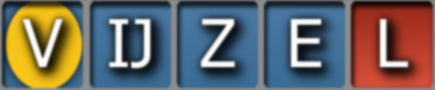
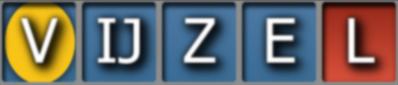
Add files via upload

diff --git a/lingle/index.html b/lingle/index.html
@@ -310,6 +310,9 @@
             .keybline button[data-bg="zwart"]:hover {
                 filter: brightness(0.7);
             }
+            :root[data-donkerblauw="true"] .keybline button[data-bg="zwart"]:hover {
+                filter: brightness(0.7);
+            }
             #notifbox button:hover {
                 background: #0002;
             }
@@ -642,6 +645,13 @@
                         linear-gradient(to top, #1d5377, #255e85);
             text-shadow: 0px 0px 2px #000F, 1px 1px 2px #000F, 1px 1px 3px #000F, 1px 1px 3px #000F;
         }
+        :root[data-donkerblauw="true"] .boxblue {
+            background: linear-gradient(to top, #0e2c40, #143244);
+        }
+        :root[data-donkerblauw="true"] .boxyellow {
+            background: radial-gradient(48% 60% at 50% 48%, #f9c418 90%, #0008 99%, transparent 102%),
+                        linear-gradient(to top, #0e2c40, #143244);
+        }
 
         .boxred::selection,    .boxblue::selection,
         .boxyellow::selection, .keycap::selection { --e: 0; } /* to prevent vscode warning lol */
@@ -747,7 +757,7 @@
 
         <h2>Voorbeeld</h2>
 
-        <img src="example.png" alt='Voorbeeld van een beurt met het woord "vijzel". De V is geel omcirkeld, de L heeft een rode achtergrond, en de andere letters hebben een blauwe achtergrond.' class="example">
+        <img id="examplepic" src="example.png" alt='Voorbeeld van een beurt met het woord "vijzel". De V is geel omcirkeld, de L heeft een rode achtergrond, en de andere letters hebben een blauwe achtergrond.' class="example">
 
         <p>De <span class="boxred">L</span> zit in het woord, en staat op de juiste plek.</p>
         <p>De <span class="boxyellow">V</span> zit in het woord, maar staat niet op de juiste plek.</p>
@@ -1087,9 +1097,22 @@ function initSett() {
 }
 function setTheme()             { document.documentElement.dataset.theme       = gamedata.thema; }
 function setBlur()              { document.documentElement.dataset.blur        = gamedata.blur; }
-function setDonkerblauw()       { document.documentElement.dataset.donkerblauw = gamedata.donkerblauw; }
 function setReducedAnimation()  { document.documentElement.dataset.redanim     = gamedata.reduceanim; }
 function setOpaque()            { document.documentElement.dataset.opaque      =!gamedata.transp; }
+function setDonkerblauw()       {
+    document.documentElement.dataset.donkerblauw = gamedata.donkerblauw;
+    updateExamplePicture();
+}
+
+function updateExamplePicture() {
+    let filename = "example.png";
+    switch (gamedata.stĳl) {
+        case "00s": default:
+            filename = gamedata.donkerblauw ? "exampledark.png" : "example.png";
+            break;
+    }
+    examplepic.src = filename;
+}
 
 function resetData() {
     localStorage.removeItem("data");
